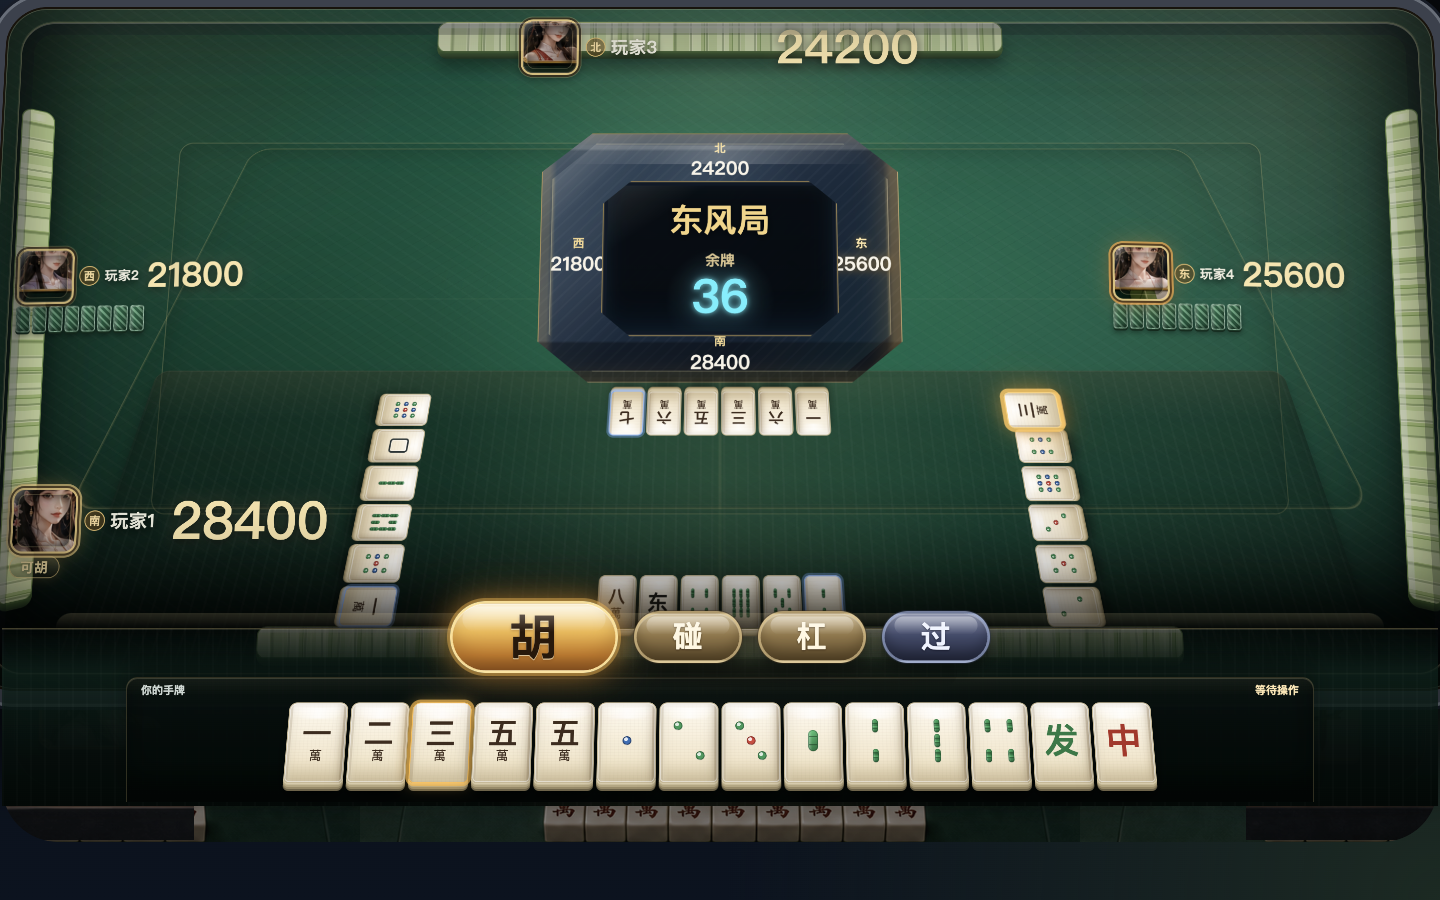
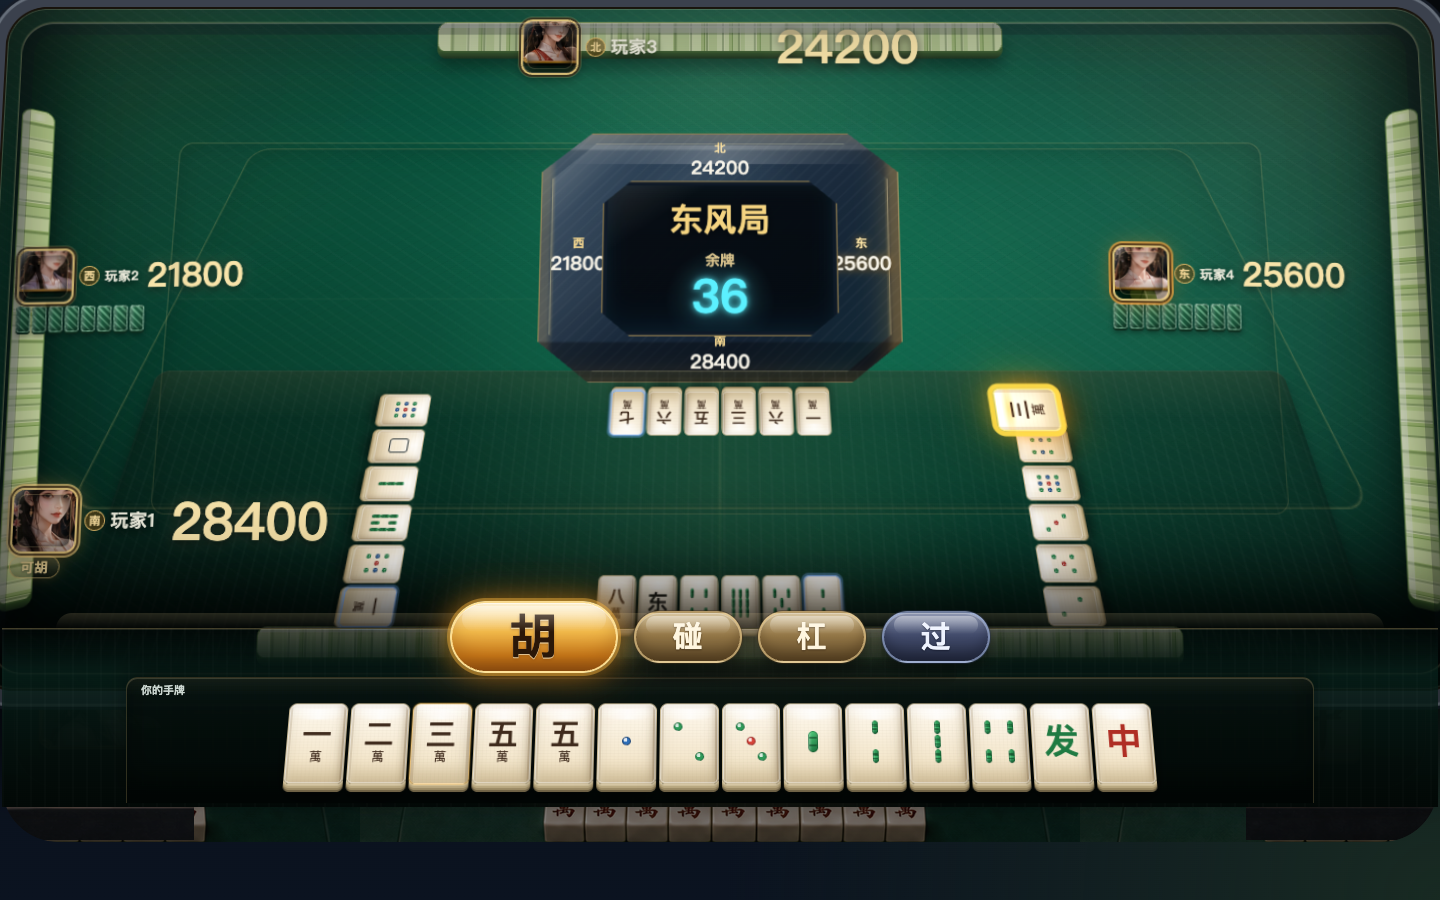
style(majiang): 弱化响应窗副文案并强化牌河目标牌首眼
关闭 16_IMPL 改稿单中「等待操作」与牌河目标牌两项，重采实现截图并回填 handoff。

diff --git a/docs/majiang/web-ui-prototype/styles.css b/docs/majiang/web-ui-prototype/styles.css
@@ -1154,38 +1154,54 @@ body {
   0%,
   100% {
     box-shadow:
-      0 0 0 3px rgba(255, 186, 64, 0.78),
-      0 0 16px rgba(255, 170, 40, 0.55),
-      0 0 28px rgba(255, 140, 20, 0.28),
+      0 0 0 4px rgba(255, 200, 80, 0.95),
+      0 0 22px rgba(255, 170, 40, 0.78),
+      0 0 44px rgba(255, 140, 20, 0.45),
       inset 0 -8px 10px rgba(160, 140, 100, 0.28),
       0 1px 0 #d8c9a6,
       0 2px 0 #c7b68f,
       0 3px 0 #b3a178,
       0 4px 0 #8f7f58,
-      0 10px 12px -2px rgba(0, 0, 0, 0.42);
+      0 14px 18px -2px rgba(0, 0, 0, 0.55);
   }
   50% {
     box-shadow:
-      0 0 0 4px rgba(255, 210, 120, 0.95),
-      0 0 22px rgba(255, 186, 64, 0.72),
-      0 0 40px rgba(255, 160, 40, 0.4),
+      0 0 0 5px rgba(255, 220, 140, 1),
+      0 0 30px rgba(255, 186, 64, 0.92),
+      0 0 56px rgba(255, 160, 40, 0.55),
       inset 0 -8px 10px rgba(160, 140, 100, 0.28),
       0 1px 0 #d8c9a6,
       0 2px 0 #c7b68f,
       0 3px 0 #b3a178,
       0 4px 0 #8f7f58,
-      0 12px 16px -2px rgba(0, 0, 0, 0.4);
+      0 16px 22px -2px rgba(0, 0, 0, 0.5);
   }
 }
 
 .tile-mini--response-target {
-  border-color: rgba(255, 210, 120, 0.98);
-  animation: targetTileGlow 1.6s ease-in-out infinite;
-  z-index: 2;
+  position: relative;
+  border-color: rgba(255, 220, 140, 1);
+  animation: targetTileGlow 1.35s ease-in-out infinite;
+  z-index: 6;
+  filter: brightness(1.1) saturate(1.12);
+}
+
+.tile-mini--response-target::after {
+  content: "";
+  position: absolute;
+  left: 50%;
+  bottom: -7px;
+  width: 130%;
+  height: 10px;
+  transform: translateX(-50%);
+  border-radius: 50%;
+  background: radial-gradient(ellipse, rgba(255, 186, 64, 0.55) 0%, transparent 72%);
+  pointer-events: none;
+  z-index: -1;
 }
 
 .river-lane--east .tile-mini--response-target {
-  transform: translateY(-2px) scale(1.12);
+  transform: translateY(-8px) scale(1.32);
 }
 
 .tile-asset--mini {
@@ -1740,7 +1756,14 @@ body {
 }
 
 .action-reason {
-  color: #ffe6b0;
+  color: rgba(255, 230, 176, 0.55);
+  font-weight: 600;
+  font-size: 10px;
+  letter-spacing: 0.02em;
+}
+
+.action-reason:empty {
+  display: none;
 }
 
 .hand-tiles {
@@ -1854,11 +1877,11 @@ body {
     0 24px 28px -8px rgba(0, 0, 0, 0.4);
 }
 
+/* 手牌同名仅弱提示，首眼留给牌河目标牌 */
 .tile.tile--response-match {
-  border-color: rgba(255, 184, 59, 0.9);
+  border-color: rgba(255, 184, 59, 0.42);
   box-shadow:
-    0 0 0 3px rgba(255, 184, 59, 0.68),
-    0 0 16px rgba(255, 184, 59, 0.52),
+    0 0 0 1px rgba(255, 184, 59, 0.28),
     inset 0 -12px 14px rgba(160, 140, 100, 0.3),
     0 1px 0 #d9caa8,
     0 2px 0 #c9ba95,

diff --git a/docs/majiang/web-ui-prototype/app.js b/docs/majiang/web-ui-prototype/app.js
@@ -730,7 +730,15 @@ function renderActionBar(model) {
   document.getElementById("mobileAvailableActionTitle").textContent = document.getElementById("availableActionTitle").textContent;
   const mobileList = document.getElementById("mobileAvailableActionReasons");
   mobileList.innerHTML = availableReasonList.innerHTML;
-  document.getElementById("actionReason").textContent = appState.selectedTileIndex === null ? "等待操作" : `已选：${model.selfHand[appState.selectedTileIndex]}`;
+  // 响应窗让胶囊动作条自解释；出牌阶段仅在已选牌时显示，避免「等待操作」类 Web 副文案抢视线
+  const actionReason = document.getElementById("actionReason");
+  if (model.phase === "response_window") {
+    actionReason.textContent = "";
+  } else if (appState.selectedTileIndex !== null) {
+    actionReason.textContent = `已选：${model.selfHand[appState.selectedTileIndex]}`;
+  } else {
+    actionReason.textContent = "";
+  }
 }
 
 function renderTimeline(model) {

diff --git a/docs/handoff-majiang-ui-fidelity-progress-20260917.md b/docs/handoff-majiang-ui-fidelity-progress-20260917.md
@@ -1,10 +1,10 @@
 # Handoff: 麻将 Web UI 保真 · 目标图闸门
 
-> 更新时间：2026-09-17（实现截图档位 B 并排 · R2 改稿单验收关闭）  
+> 更新时间：2026-09-17（P1：弱化 Web 副文案 + 强化牌河目标牌首眼）  
 > 规范：`AGENTS.md` · `docs/standards/rules/development.md` · Skill `majiang-ui-review`（档位 B）
 
 ## 一句话状态
-**桌面目标图 R2 有条件通过；实现截图档位 B 已并排——R2 改稿单 3 条关闭（胶囊动作层/弱高亮/角区稀疏）；整桌冲顶仍未满分（CSS 牌面/Web 原型质感）。acceptance 11/11 不可替代视觉终审。**
+**桌面目标图 R2 有条件通过；实现截图档位 B 已并排关 R2 改稿单；P1 中「等待操作」副文案与牌河目标牌首眼已关——整桌冲顶仍未满分（CSS 牌面/Web 原型质感；sprite 按需）。acceptance 11/11 不可替代视觉终审。**
 
 ```mermaid
 flowchart TD
@@ -19,14 +19,15 @@ flowchart TD
   E2 --> F
   E3 --> F
   F -->|R2 改稿单关| G[16_…IMPL 基本符合]
-  G --> H[按需 sprite / 牌河目标牌 / 移动端]
+  G --> H1[P1: 副文案 + 牌河目标牌]
+  H1 --> H[按需 sprite / 移动端]
   C -->|否| B
   I[acceptance 11/11] -.->|不可替代视觉| F
 ```
 
 ## 目标 / 用户意图
-- 已完成：打回 → 重绘 → R2 复审 → 文档闸门 → 动作层胶囊 → 去教学层/角区稀疏 → 厚度/微透视 → 筒条经典印花 → **实现截图档位 B 并排关 R2 改稿单**。
-- 进行中（按需）：印花若仍偏 CSS → PNG/SVG sprite；强化牌河目标牌首眼；弱化「等待操作」等 Web 副文案。
+- 已完成：打回 → 重绘 → R2 复审 → 文档闸门 → 动作层胶囊 → 去教学层/角区稀疏 → 厚度/微透视 → 筒条经典印花 → 实现截图档位 B 关 R2 → **弱化「等待操作」+ 强化牌河目标牌首眼**。
+- 进行中（按需）：印花若仍偏 CSS → PNG/SVG sprite。
 - 可选并行：补移动端目标/实现帧 / `final-evidence` 全链。
 
 ## 已完成
@@ -42,17 +43,19 @@ flowchart TD
 | 牌面/桌材质起步 | 手牌/牌河陶瓷分层厚度 + 桌面接触阴影；桌毡加深 + 桌面/牌河微透视加大；手牌行 `rotateX` | `8301fd6` · `styles.css` |
 | 牌面印花布局 | 筒/条改 3×3 经典格位；去套色「筒/条」字；筒点分色；白板框；陶瓷微纹；`?selfcheck=1` | `b5526db` · `web-ui-prototype/` |
 | 实现截图档位 B | **R2 改稿单 3 条关闭 · 整桌仍有条件** | `12023b5` · `16_HIFI_IMPL_COMPETITOR_REVIEW_20260917.md` + `target-assets/impl-desktop-1440x900-20260917.png` |
+| P1 副文案 + 牌河目标 | **「等待操作」响应窗置空；牌河目标抬升/光晕加强；手牌同名弱匹配** | 本轮 commit · `web-ui-prototype/` + 重采实现截图 + `16_…IMPL` 回填 |
 
 ### 相对打回稿的收敛
 1. 说明型叠加层（大箭头/气泡/说明条）→ **目标图已移除**；实现层 beam/callout/`latest-action-wrap` 亦已退出主舞台。
 2. 动作层 Web 矩形条 → **胶囊/印章字效条**（`4027d4d`；实现验收已关；**勿再退回圆钮或深色工具条**）。
 3. 角区标签墙 → **已压缩**为头像+分数+南位轻量「可胡」。
 4. 筒/条「点数堆叠 + 套字」→ **经典印花格位**（仍非 PNG sprite）。
+5. 底部「等待操作」→ **响应窗已清空**；牌河目标牌首眼 **已强化于手牌同名匹配**。
 
 ## 未完成 / 阻塞
 | 优先级 | 事项 | 责任 | 阻塞编码？ |
 |---|---|---|---|
-| P1 | 按需：印花 sprite + 牌河目标牌首眼 + 弱化 Web 副文案 | 编码 | 否 |
+| P1 | 按需：印花 sprite（仅当并排仍判偏 CSS） | 编码 | 否 |
 | P2 | 补 390×844 移动端同局势目标图/实现帧并复审 | 设计/工程 | 否 |
 | P2 | 补 `final-evidence/` 全链截图采集（可选） | 工程 | 否 |
 | P1 | 后续 adapter/`core` 接线（任务包 2+） | 编码 | 闸门已开 |
@@ -84,16 +87,15 @@ flowchart TD
 - 打回留档：`…/target-assets/guangdong-hifi-target-desktop-1440x900-review-rejected-20260917.png`
 - 主参考：`…/competitor-assets/riichi-city/steam-shot-2.jpg`
 
-### 原型（视觉落地 · R2 实现验收已关）
-- `docs/majiang/web-ui-prototype/`（动作层/弱高亮/厚度/印花已提交；整桌冲顶按需收敛）
+### 原型（视觉落地 · R2 实现验收已关 · P1 副文案/目标牌已关）
+- `docs/majiang/web-ui-prototype/`（动作层/弱高亮/厚度/印花/副文案/牌河目标已提交；整桌冲顶按需 sprite）
 
 ## 工作区未提交改动（下一会话注意）
-- 无（本轮 `16_…IMPL` + 实现截图 + handoff 已提交 `12023b5`）。
-- `node_modules` / `.tmp` 勿提交（`.tmp/` 已 gitignore）。
-- 已提交历史：`12023b5` 实现验收；`b5526db` 印花；`8301fd6` 厚度；`e99d51a` 去教学层；`4027d4d` 动作层；闸门 `5e22a0f`；哈希回填 `3e880f9`。
+- 本轮提交后应干净；`node_modules` / `.tmp` 勿提交。
+- 已提交历史：本轮 P1 副文案+目标牌；`12023b5` 实现验收；`b5526db` 印花；`8301fd6` 厚度；`e99d51a` 去教学层；`4027d4d` 动作层；闸门 `5e22a0f`。
 
 ## 建议下一会话动作
-1. **编码（按需）**：印花 sprite / 牌河目标牌首眼 / 弱化「等待操作」类 Web 副文案（见 `16_…IMPL` 改稿单）。
+1. **编码（按需）**：仅当并排仍判印花偏 CSS 再上 PNG/SVG sprite（见 `16_…IMPL`）。
 2. **设计/工程**：补移动端 390×844 同局势目标图或实现帧 → 档位 B 复审。
 3. **证据链（可选）**：扩展 `final-evidence` 采集脚本（与视觉收敛并行）。
 4. **接线**：任务包 2+ adapter/`core`（闸门已开，不阻塞于 R2 视觉条）。

diff --git a/docs/majiang/design-freeze/stage-a-2026-05-10/16_HIFI_IMPL_COMPETITOR_REVIEW_20260917.md b/docs/majiang/design-freeze/stage-a-2026-05-10/16_HIFI_IMPL_COMPETITOR_REVIEW_20260917.md
@@ -42,16 +42,16 @@
   - 角区稀疏与弱高亮局势语言
   - 筒条经典印花格位方向
 - 修改：
-  1. **作用范围**：牌面资产化（按需）  
+  1. **作用范围**：牌面资产化（按需 · 仍开）  
      **具体改动**：若下一轮并排仍判定印花偏 CSS，再上 PNG/SVG sprite；保持现有格位语义。  
      **验收条件**：手牌/牌河近距观感接近目标图实体牌，而非「圆角矩形 + 色点」。  
      **禁止扩展**：不重做整桌布局；不引入日式术语。
-  2. **作用范围**：底部次要 Web 态文案  
-     **具体改动**：响应窗内弱化「等待操作」等通用 Web 提示，让主动作条自解释。  
+  2. **作用范围**：底部次要 Web 态文案 · **已关（2026-09-17 P1）**  
+     **具体改动**：响应窗 `#actionReason` 置空；出牌阶段仅「已选：」；空态 `display:none`。  
      **验收条件**：并排时底部不再像表单工具栏副文案抢视线。  
      **禁止扩展**：不恢复桌心说明条/教学气泡。
-  3. **作用范围**：右家牌河目标牌可读性  
-     **具体改动**：强化牌河内目标牌抬升/光效（相对手牌同名弱匹配），保证首眼落在牌河而非只看动作条。  
+  3. **作用范围**：右家牌河目标牌可读性 · **已关（2026-09-17 P1）**  
+     **具体改动**：牌河目标抬升 `scale(1.32)` + 更强光晕/落地光；手牌同名匹配降为弱描边。  
      **验收条件**：无文案时 3 秒内仍先看到「右家那张三万」。  
      **禁止扩展**：不加回箭头/说明条。
 - 验证：
@@ -73,7 +73,7 @@
   维度：冲顶完成度 / 视觉语义  
   问题：整桌仍是高质量 Web 原型（CSS 牌面、桌毡/光影、角色系统完成度）相对 `steam-shot-2` 商业局内仍有架构级质感差。  
   影响：可关闭 R2 约束验收，但不可宣称无条件顶级通过。  
-  建议：按改稿单按需做 sprite / 弱化 Web 副文案 / 强化牌河目标牌；停止无关微调。
+  建议：按需 sprite；副文案与牌河目标牌首眼已关；停止无关微调。
 
 - 严重级别：低  
   维度：资料对齐  
@@ -83,7 +83,7 @@
 
 ## 迭代建议
 - P0（本轮完成）：关 `15_…R2` 改稿单实现验收
-- P1：按需牌面 sprite + 牌河目标牌首眼强化
+- P1 残余：按需牌面 sprite（副文案 / 牌河目标牌首眼已关）
 - P2：移动端同局势截图复审；可选 `final-evidence` 全链
 
 ## 经验沉淀
@@ -100,5 +100,5 @@
 
 ## 闸门结论
 - **R2 改稿单实现验收：关闭（基本符合）**
-- **整桌竞品级冲顶：仍有条件 / 未满分** — 可继续编码收敛材质与目标牌，不可宣称无约束顶级通过
-- 下一责任角色：编码（按需 P1）+ 设计/工程（P2 移动端帧）
+- **整桌竞品级冲顶：仍有条件 / 未满分** — 可继续按需 sprite；不可宣称无约束顶级通过
+- 下一责任角色：编码（按需 sprite）+ 设计/工程（P2 移动端帧）
